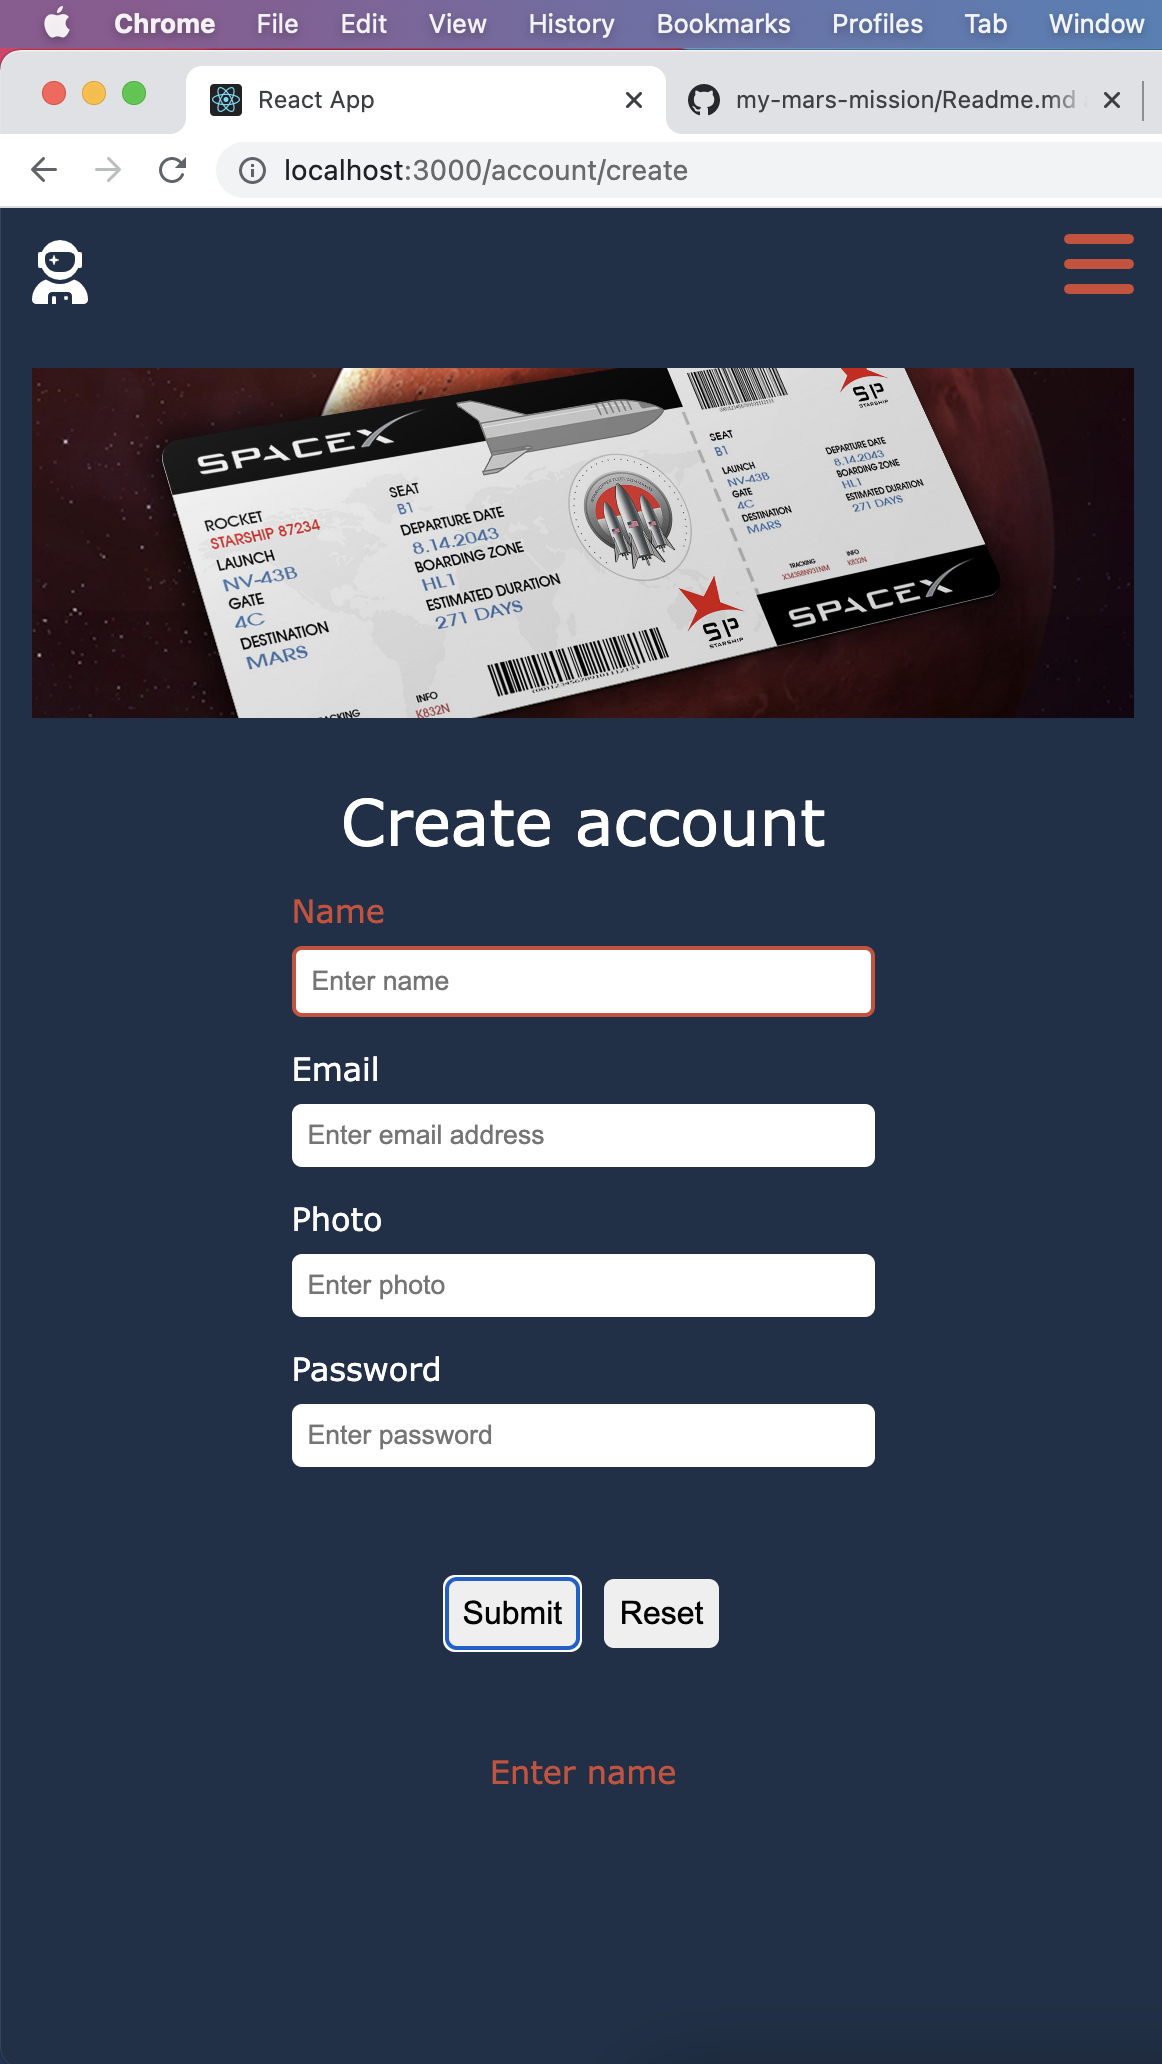
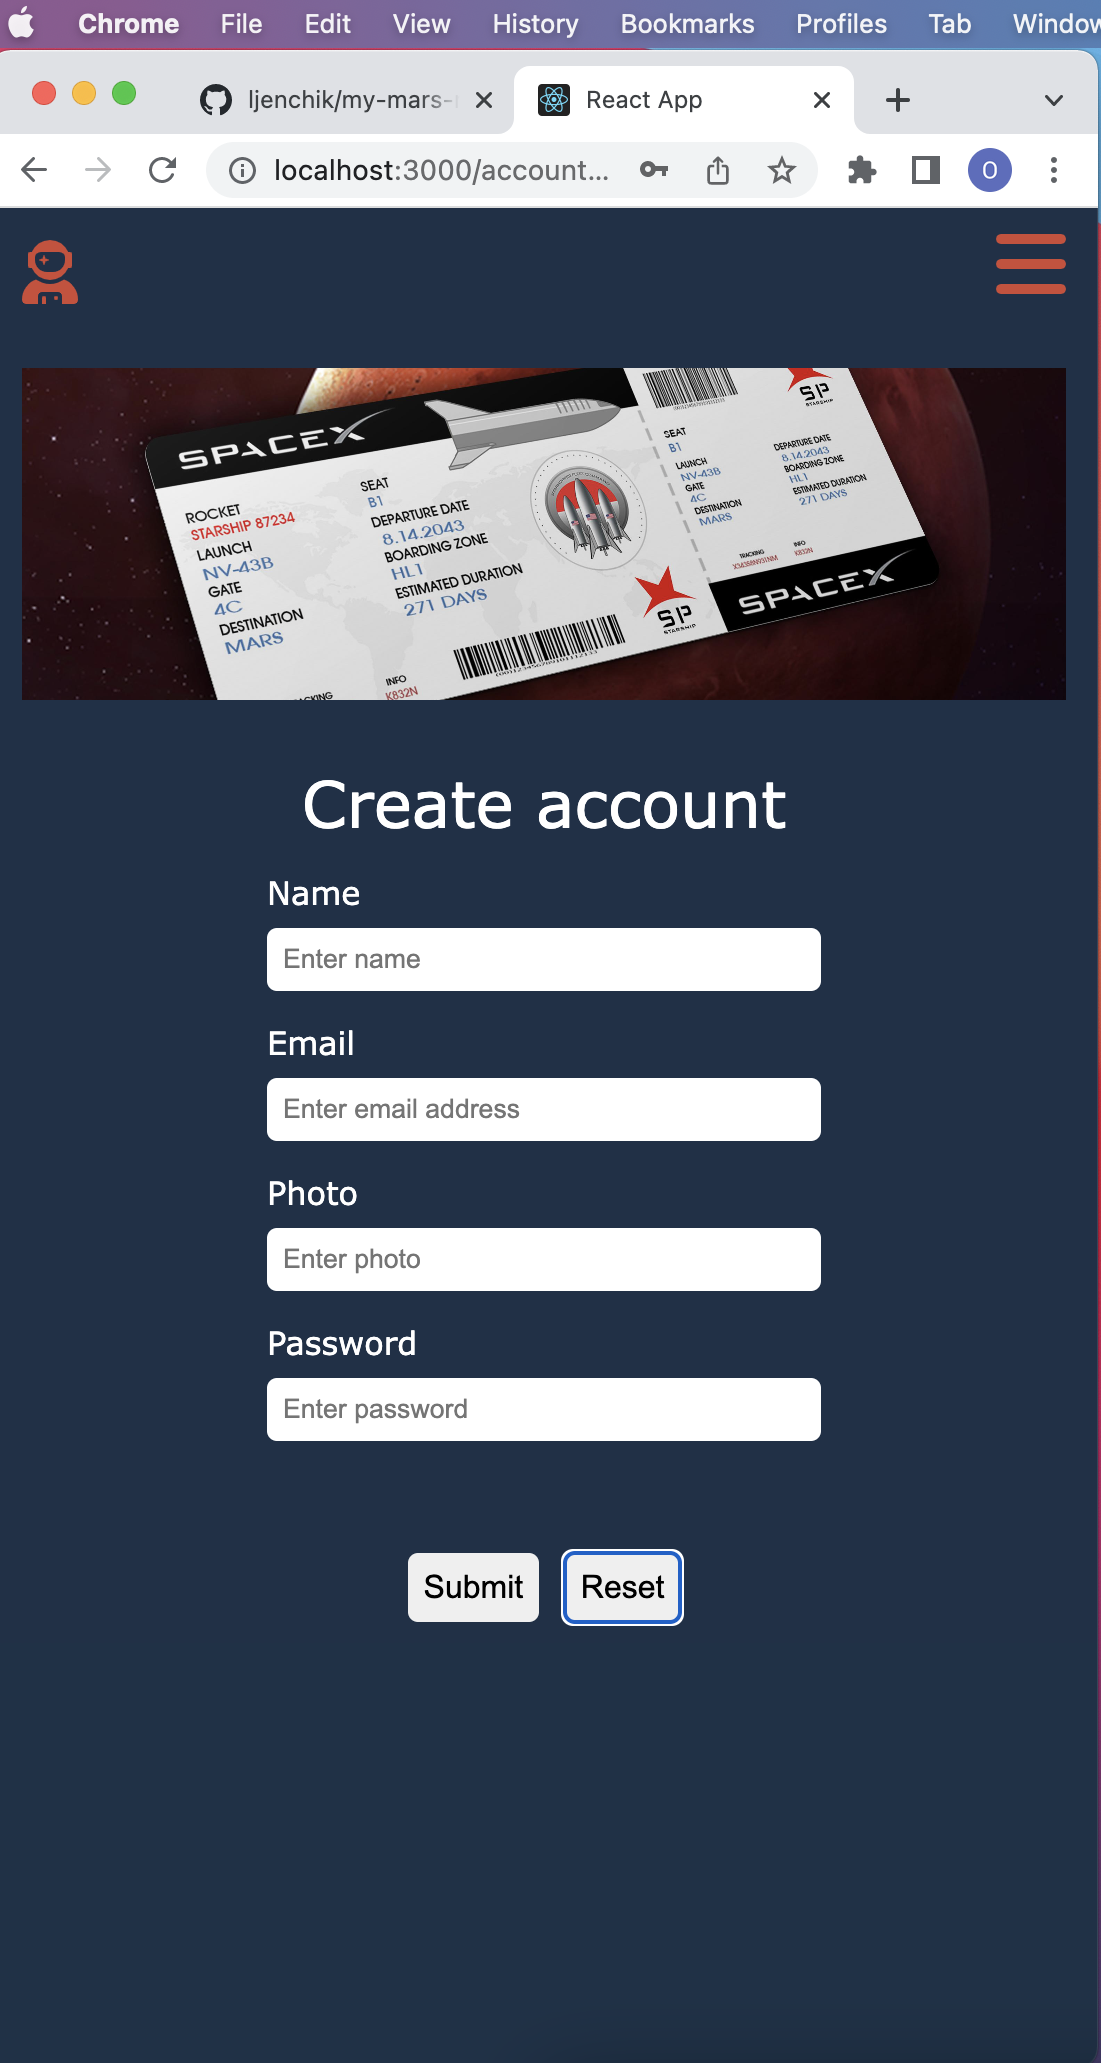
Added new screenshots to readme, error styling

diff --git a/backend/validation/accountFormValidation.ts b/backend/validation/accountFormValidation.ts
@@ -29,7 +29,7 @@ export function requestAccountValidation(request: AccountForm) {
     return {
       success: false,
       error:
-        "Password must contain minimum 8 characters, at least one letter and one number",
+        "Password must contain minimum 8 characters, \n at least one letter and one number",
     };
   }
 

diff --git a/frontend/src/components/LandingPage/LandingPage.scss b/frontend/src/components/LandingPage/LandingPage.scss
@@ -157,6 +157,7 @@ figure {
     margin-top: 1rem;
   }
 
+  
   .landing-page-image {
     width: 30%;
   }
@@ -175,6 +176,12 @@ figure {
   }
   .navbar-logo-astronaut:hover {
     color:#d04a36 !important;
+  }
+
+  .landing-page-link {
+    text-decoration: none;
+    color: #d04a36;
+    font-size: larger;
   }
 }
 

diff --git a/frontend/src/components/AccountForm/AccountForm.tsx b/frontend/src/components/AccountForm/AccountForm.tsx
@@ -184,7 +184,7 @@ export const AccountForm = () => {
           Reset
         </Button>
       </div>
-      {error ? <div className="account-form-error">{error}</div> : ""}
+      {error ? <div className="account-form-error display-linebreak">{error}</div> : ""}
     </div>
   );
 };

diff --git a/frontend/src/components/AccountForm/AccountForm.scss b/frontend/src/components/AccountForm/AccountForm.scss
@@ -80,3 +80,7 @@
    color: #d04a36;
    margin: 20px 10px;
 }
+
+.display-linebreak {
+    white-space: pre-line;
+  }
